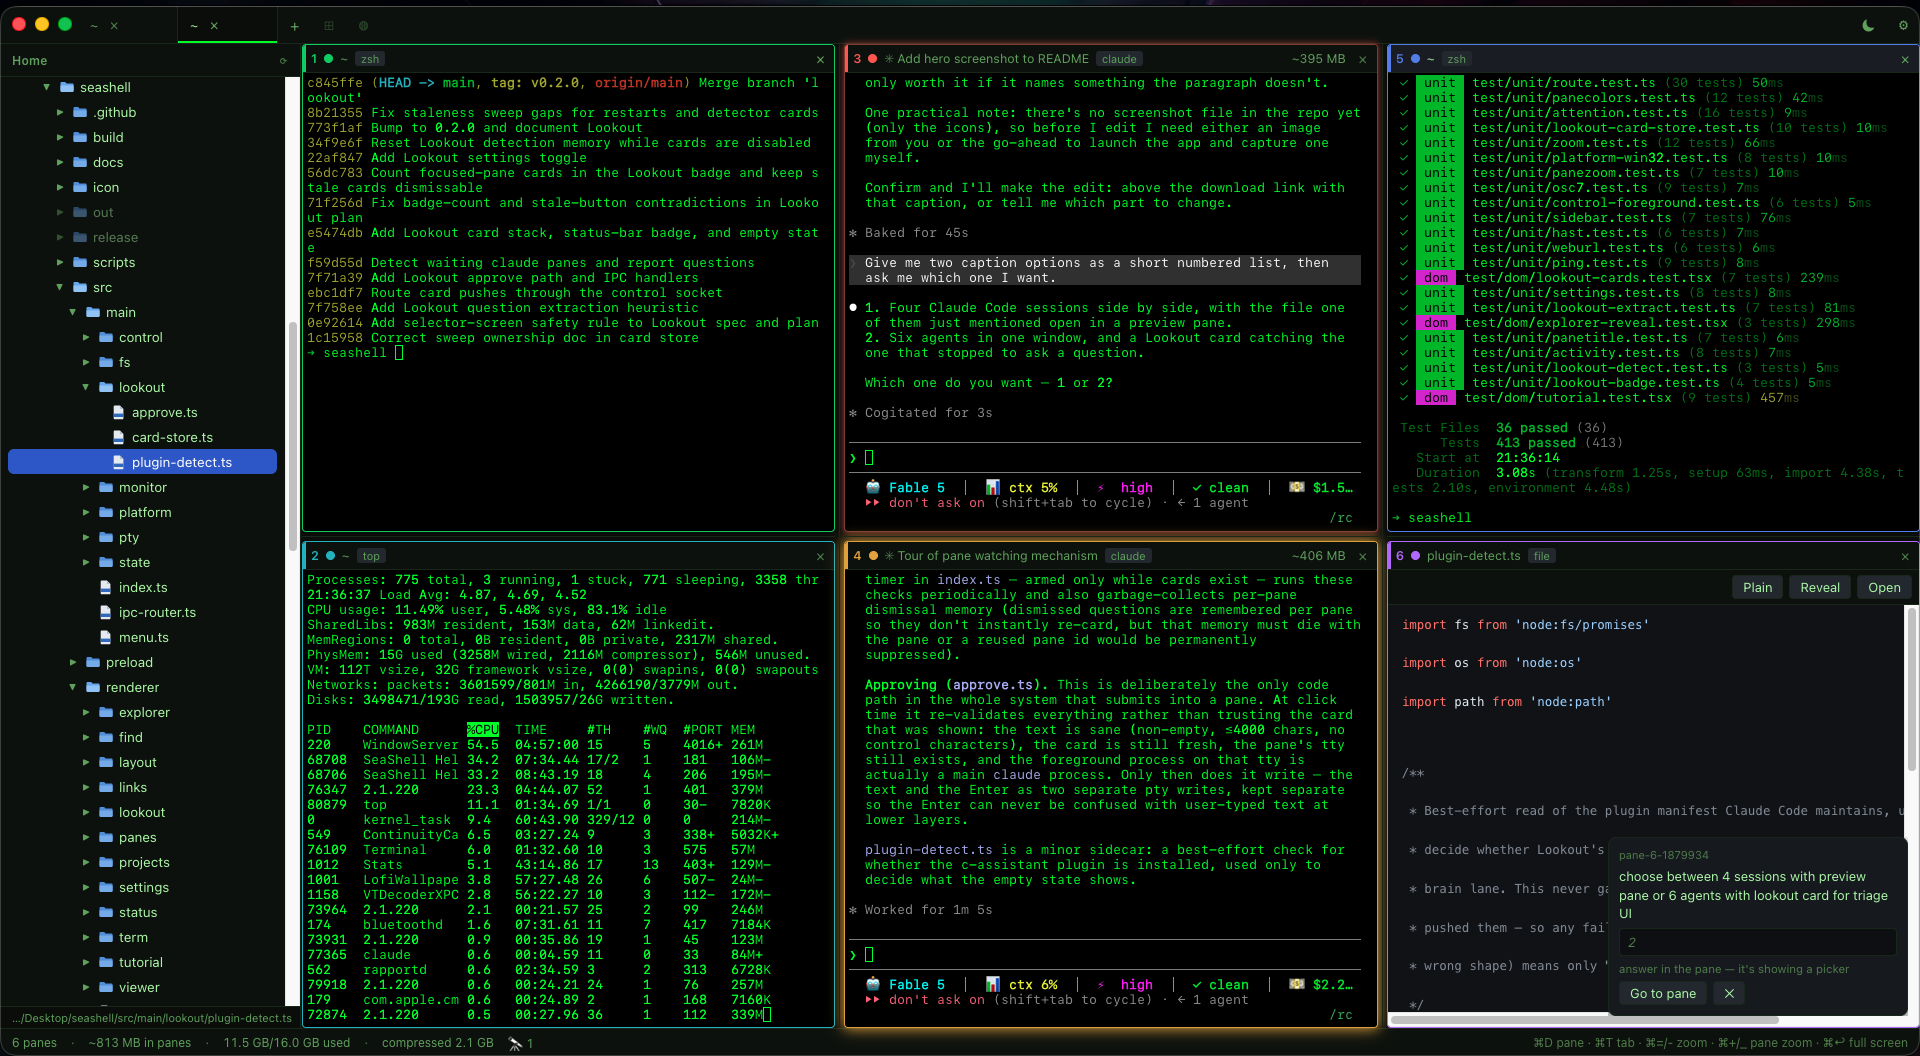
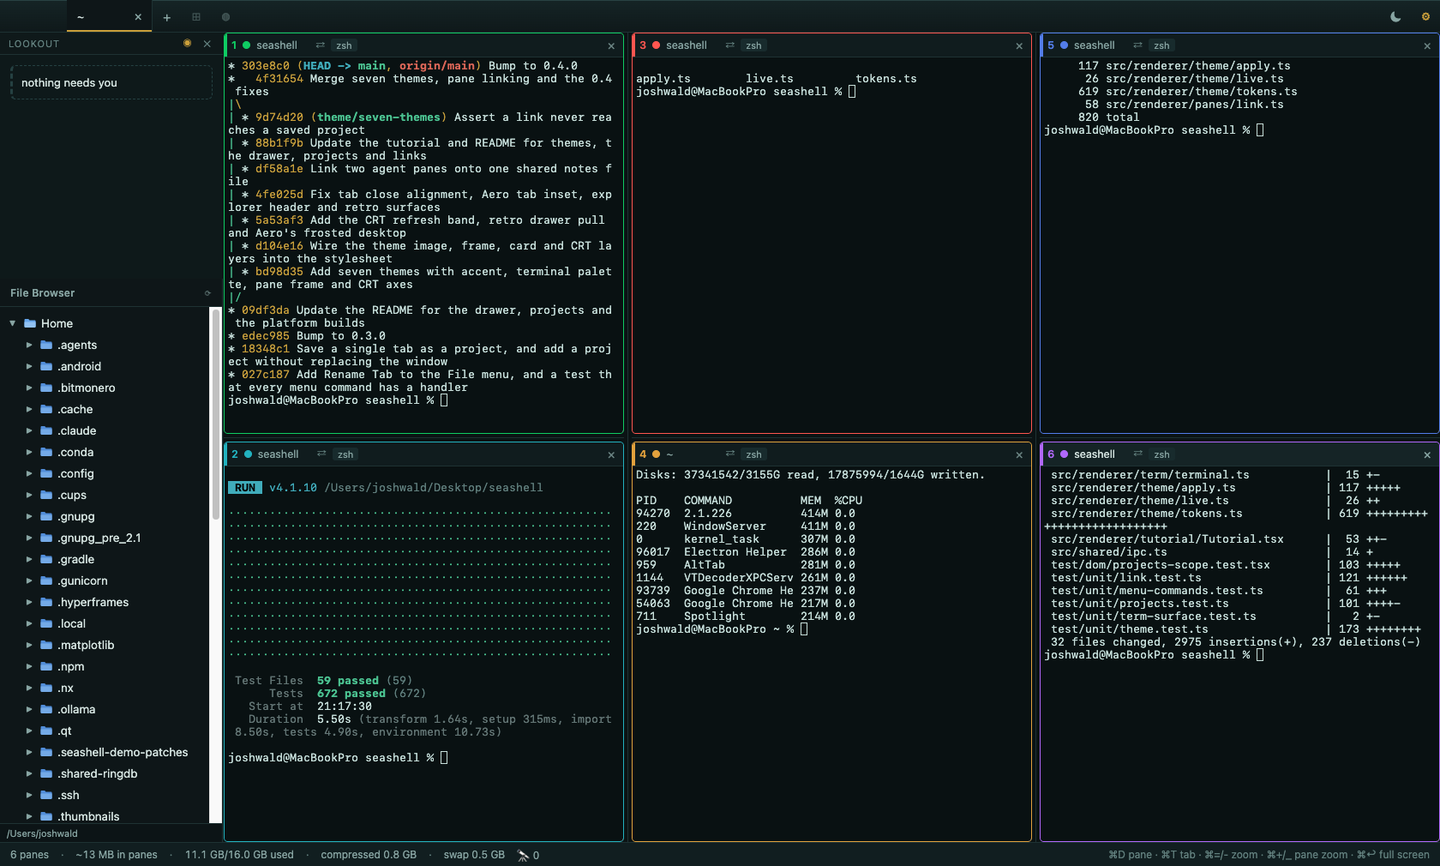
New hero and a themes grid for 0.4

Changed region(s): [[0.0, 0.0, 1.0, 1.0]]

diff --git a/README.md b/README.md
@@ -9,9 +9,9 @@ A terminal window manager. Run many shells side by side in one window — plain
 macOS is the reference platform; Windows and Linux builds are experimental.
 
 <p align="center">
-  <img src="docs/hero.png" alt="SeaShell: six panes tiled in one window — two Claude Code sessions, a test run, a system monitor, a file preview — with a Lookout card in the corner catching the session that stopped to ask a question.">
+  <img src="docs/hero.png" alt="SeaShell: six terminal panes tiled in one window running a git log, a test suite, a process table and a diff, with the file explorer and the Lookout rail down the left side, in the Nautical theme.">
 </p>
-<p align="center"><i>Six panes in one window — and a Lookout card catching the session that stopped to ask a question.</i></p>
+<p align="center"><i>Six panes in one window, in the Nautical theme.</i></p>
 
 **[⬇ Download the latest release](https://github.com/voidharbor/seashell/releases/latest)** — macOS · Windows · Linux
 
@@ -151,6 +151,11 @@ section, which is a panel toggle, not an off switch: detection keeps running beh
 cards keep stacking up out of sight.
 
 ## Themes
+
+<p align="center">
+  <img src="docs/themes.png" alt="The same six-pane window shown under all seven themes: Nautical, Current, Retro CRT, macOS Light, macOS Dark, Hacker and Aero Glass.">
+</p>
+<p align="center"><i>One window, seven themes. Same panes, same output, same moment.</i></p>
 
 Settings > Appearance. Seven built-in themes: **Nautical** (the default, oxidised
 teal and brass), **Current** (exactly what the app looked like before themes),
